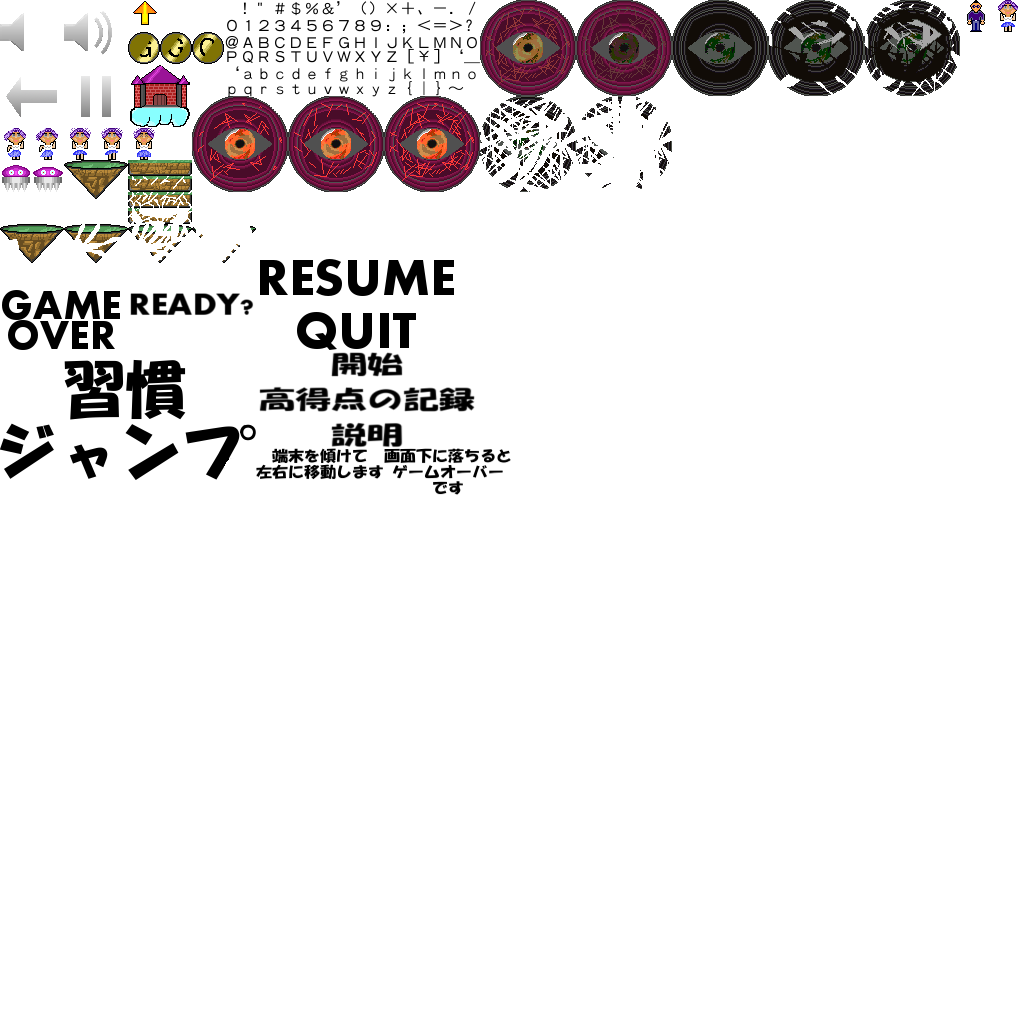
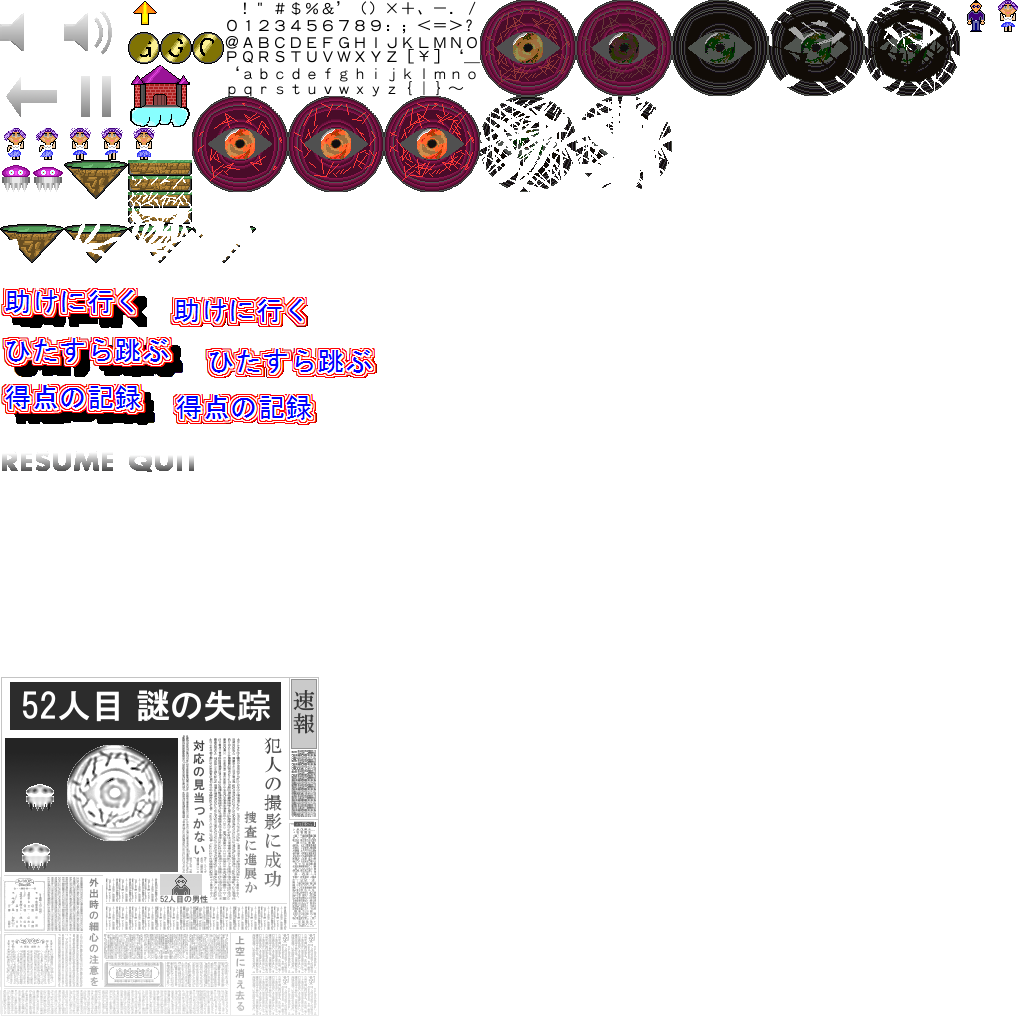
素材修正、ラウンド進行実�
・タイトル画面の素材修正
・まだそろえてないアセットあるため、おかしな表示あり
・ラウンド進行するようにした。
・しかし、ボスを出すタイミングをとれず、現状放置
・進行したラウンドを保存し、スタート時はゲームオーバーになったラウンドから開始するようにした。

Changed region(s): [[0.0, 0.6562, 0.3125, 1.0], [0.0, 0.25, 0.5, 0.5], [0.875, 0.0312, 0.9062, 0.0625]]

diff --git a/src/com/zukirou/habitofjump/MainMenuScreen.java b/src/com/zukirou/habitofjump/MainMenuScreen.java
@@ -23,8 +23,8 @@ public class MainMenuScreen extends GLScreen{
 	SpriteBatcher batcher;
 	Rectangle soundBounds;
 	Rectangle playBounds;
-	Rectangle highscoresBounds;
-	Rectangle helpBounds;
+	Rectangle enduranceBounds;
+	Rectangle recordBounds;
 	Vector2 touchPoint;
 	
 	public MainMenuScreen(Game game){
@@ -34,11 +34,11 @@ public class MainMenuScreen extends GLScreen{
 		
 		soundBounds = new Rectangle(0, 0, 64, 64);
 
-		playBounds = new Rectangle(16 - 150, 200 + 18, 300, 36);
+		playBounds = new Rectangle(87, 185, 146, 40);
 
-		highscoresBounds = new Rectangle(160 - 150, 200 - 18, 300, 36);
+		enduranceBounds = new Rectangle(87, 135, 146, 40);
 		
-		helpBounds = new Rectangle(160 - 150, 200 - 18 - 36, 300, 36);
+		recordBounds = new Rectangle(87, 85, 146, 40);
 		
 		touchPoint = new Vector2();
 	}
@@ -55,18 +55,21 @@ public class MainMenuScreen extends GLScreen{
 				guiCam.touchToWorld(touchPoint);
 				
 				if(OverlapTester.pointInRectangle(playBounds, touchPoint)){
+					batcher.beginBatch(Assets.items);
+					batcher.drawSprite(160, 200, 300, 110, Assets.mainMenuStartPush);
+					batcher.endBatch();
 					Assets.playSound(Assets.clickSound);
 					game.setScreen(new GameScreen(game));
 					return;
 				}
 				
-				if(OverlapTester.pointInRectangle(highscoresBounds, touchPoint)){
+				if(OverlapTester.pointInRectangle(enduranceBounds, touchPoint)){
 					Assets.playSound(Assets.clickSound);
 					game.setScreen(new HighscoresScreen(game));
 					return;
 				}
 				
-				if(OverlapTester.pointInRectangle(helpBounds, touchPoint)){
+				if(OverlapTester.pointInRectangle(recordBounds, touchPoint)){
 					Assets.playSound(Assets.clickSound);
 					game.setScreen(new HelpScreen1(game));
 					return;
@@ -100,8 +103,10 @@ public class MainMenuScreen extends GLScreen{
 		gl.glBlendFunc(GL10.GL_SRC_ALPHA, GL10.GL_ONE_MINUS_SRC_ALPHA);
 		
 		batcher.beginBatch(Assets.items);
-		batcher.drawSprite(160, 480 - 10 - 71, 274, 142, Assets.logo);
-		batcher.drawSprite(160, 200, 300, 110, Assets.mainMenu);
+		batcher.drawSprite(160, 200, 315, 352, Assets.logo);
+		batcher.drawSprite(160, 185, 146, 40, Assets.mainMenuStart);
+		batcher.drawSprite(160, 135, 146, 40, Assets.mainMenuEndurance);
+		batcher.drawSprite(160, 85, 146, 40, Assets.mainMenuScoreRecord);
 		batcher.drawSprite(32, 32, 64, 64, Settings.soundEnabled ? Assets.soundOn : Assets.soundOff);
 		batcher.endBatch();
 		

diff --git a/src/com/zukirou/habitofjump/Assets.java b/src/com/zukirou/habitofjump/Assets.java
@@ -13,16 +13,24 @@ public class Assets{
 	public static TextureRegion backgroundRegion;
 	public static Texture items;
 	
-	public static TextureRegion mainMenu;
-	public static TextureRegion pauseMenu;
+	public static TextureRegion logo;
+	public static TextureRegion mainMenuStart;
+	public static TextureRegion mainMenuStartPush;
+	public static TextureRegion mainMenuEndurance;
+	public static TextureRegion mainMenuEndurancePush;
+	public static TextureRegion mainMenuScoreRecord;
+	public static TextureRegion mainMenuScoreRecordPush;
+	
+	
+	
 	public static TextureRegion ready;
 	public static TextureRegion gameOver;
 	public static TextureRegion highScoresRegion;
-	public static TextureRegion logo;
 	public static TextureRegion soundOn;
 	public static TextureRegion soundOff;
 	public static TextureRegion arrow;
-	public static TextureRegion pause;
+	public static TextureRegion resume;
+	public static TextureRegion quit;
 	public static TextureRegion spring;
 	public static TextureRegion castle;
 	public static Animation coinAnim;
@@ -58,16 +66,23 @@ public class Assets{
 		
 		items = new Texture(game, "items.png");
 		
-		mainMenu = new TextureRegion(items, 256, 352, 224, 96);
-		pauseMenu = new TextureRegion(items, 256, 256,224, 96);
+		logo = new TextureRegion(items, 0, 672, 320, 352);
+		mainMenuStart = new TextureRegion(items, 0, 288, 146, 40);
+		mainMenuStartPush = new TextureRegion(items, 147, 288, 146, 40);
+		mainMenuEndurance = new TextureRegion(items, 0, 335, 182, 42);
+		mainMenuEndurancePush = new TextureRegion(items, 205, 335, 182, 42);
+		mainMenuScoreRecord = new TextureRegion(items, 0, 384, 155, 42);
+		mainMenuScoreRecordPush = new TextureRegion(items, 173, 384, 155, 42);
+		
 		ready = new TextureRegion(items, 128, 288, 128, 32);
 		gameOver = new TextureRegion(items, 0, 288, 128, 64);
 		highScoresRegion = new TextureRegion(Assets.items, 256, 384, 224, 32);
-		logo = new TextureRegion(items, 0, 352, 256, 128);
 		soundOff = new TextureRegion(items, 0, 0, 64, 64);
 		soundOn = new TextureRegion(items, 64, 0, 64, 64);
 		arrow = new TextureRegion(items, 0, 64, 64, 64);
-		pause = new TextureRegion(items, 256, 256, 224, 96);
+		
+		resume = new TextureRegion(items, 0, 448, 113, 24);
+		quit = new TextureRegion(items, 128, 448, 70, 25);
 		
 		spring = new TextureRegion(items, 128, 0, 32, 32);
 		castle = new TextureRegion(items, 128, 64, 64, 64);

diff --git a/src/com/zukirou/habitofjump/GameScreen.java b/src/com/zukirou/habitofjump/GameScreen.java
@@ -161,11 +161,14 @@ public class GameScreen extends GLScreen{
 		}
 		if(world.state == World.WORLD_STATE_GAME_OVER){
 			state = GAME_OVER;
-			if(lastScore >= Settings.highscores[4])
-				scoreString = "new highscore: " + lastScore;
-			else
-				scoreString = "score: " + lastScore;
-			Settings.addScore(lastScore);
+			for(int i = 0; i < 5; i++){
+				if(lastScore >= Settings.highscores[i])
+					scoreString = "new highscore: " + lastScore;
+				else
+					scoreString = "score: " + lastScore;				
+			}
+			int roundLevel = World.roundLevel;
+			Settings.addScore(lastScore, roundLevel);
 			Settings.save(game.getFileIO());
 		}
 		if(world.state == World.WORLD_STATE_GAME_STORY_CLEAR){
@@ -230,7 +233,6 @@ public class GameScreen extends GLScreen{
 			TouchEvent event = touchEvents.get(i);
 			if(event.type != TouchEvent.TOUCH_UP)
 				continue;
-			World.gravity = new Vector2(0, -8);
 			game.setScreen(new MainMenuScreen(game));
 		}
 	}
@@ -281,12 +283,14 @@ public class GameScreen extends GLScreen{
 	}
 	
 	private void presentRunning(){
-		batcher.drawSprite(320 - 32, 480 - 32, 64, 64, Assets.pause);
+		batcher.drawSprite(320 - 10, 480, 10, 40, Assets.resume);
 		Assets.font.drawText(batcher, scoreString, 16, 480 - 20);
 	}
 	
 	private void presentPaused(){
-		batcher.drawSprite(160, 240, 192, 96, Assets.pauseMenu);
+		batcher.drawSprite(160, 240, 113, 24, Assets.resume);
+		batcher.drawSprite(160, 190, 70, 24, Assets.quit);
+		
 		Assets.font.drawText(batcher, scoreString, 16, 480 - 20);
 	}
 	

diff --git a/src/com/zukirou/habitofjump/Settings.java b/src/com/zukirou/habitofjump/Settings.java
@@ -12,6 +12,7 @@ public class Settings{
 	public static boolean soundEnabled = true;
 	public final static int[] highscores = new int[] {100, 80, 50, 30, 10};
 	public final static String file = ".hoj";
+	public static int currentRound = 0;
 	
 	public static void load(FileIO files){
 		BufferedReader in = null;
@@ -21,6 +22,8 @@ public class Settings{
 			for(int i = 0; i < 5; i++){
 				highscores[i] = Integer.parseInt(in.readLine());
 			}
+			currentRound = Integer.parseInt(in.readLine());
+			
 		}catch(IOException e){
 			
 		}catch(NumberFormatException e){
@@ -45,6 +48,7 @@ public class Settings{
 				out.write(Integer.toString(highscores[i]));
 				out.write("/n");
 			}
+			out.write(Integer.toString(currentRound));
 		}catch(IOException e){
 			
 		}finally{
@@ -57,7 +61,10 @@ public class Settings{
 		}
 	}
 	
-	public static void addScore(int score){
+	public static void addScore(int score, int round){
+		if(currentRound <= round)
+			currentRound = round;
+	
 		for(int i = 0; i < 5; i++){
 			if(highscores[i] < score){
 				for(int j = 4; j > 1; j--)
@@ -65,7 +72,7 @@ public class Settings{
 				highscores[i] = score;
 				break;	
 			}	
-		}	
+		}
 	}
 	
 }

diff --git a/src/com/zukirou/habitofjump/Boss.java b/src/com/zukirou/habitofjump/Boss.java
@@ -9,6 +9,7 @@ public class Boss extends DynamicGameObject{
 	public static final int BOSS_HP = 100;
 	public static final int BOSS_STATE_ALIVE = 0;
 	public static final int BOSS_STATE_DEAD = 1;
+	public static final int BOSS_STATE_WAIT = 2;
 	public static final float BOSS_DEAD_TIME = 0.2f * 8;
 	
 	float stateTime = 0;
@@ -19,7 +20,7 @@ public class Boss extends DynamicGameObject{
 		velocity.set(BOSS_VELOCITY, 0);
 		this.state = BOSS_STATE_ALIVE;
 	}
-	
+
 	public void update(float deltaTime){
 		position.add(velocity.x * deltaTime, velocity.y * deltaTime);
 		bounds.lowerLeft.set(position).sub(BOSS_WIDTH / 2, BOSS_HEIGHT / 2);

diff --git a/src/com/zukirou/habitofjump/WorldRenderer.java b/src/com/zukirou/habitofjump/WorldRenderer.java
@@ -50,8 +50,8 @@ public class WorldRenderer{
 		renderCastel();
 		renderUmaFall();
 		renderUmaTogeFix();
-		renderBoss();
-		batcher.endBatch();
+		renderBoss();		
+		batcher.endBatch();			
 		gl.glDisable(GL10.GL_BLEND);
 	}
 	
